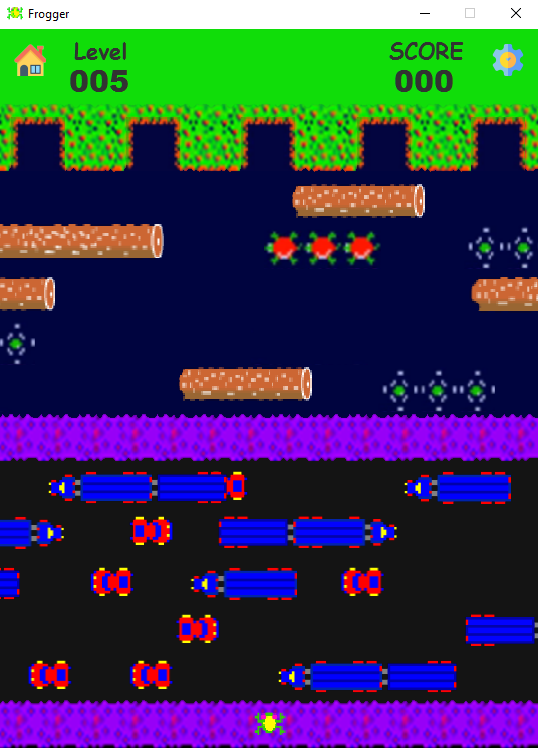
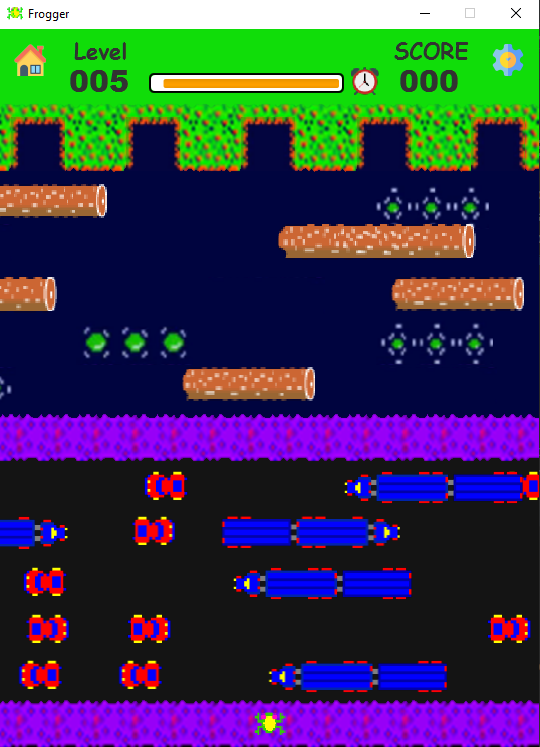
update README.md

diff --git a/README.md b/README.md
@@ -29,10 +29,19 @@ The focus of this repo will mainly be improving gameplay and adding features to 
 - [License](#license)
 
 ## Installation
+### Method 1
 1. Clone this repo
 2. Unzip the folder
 3. In command prompt use `cd $YOUR_PATH` navigate into cloned folder
 4. type in `gradlew run` to build and run the game
+### Method 2
+1. Download Released jar
+2. Download JavaFx
+3. In command prompt use `cd $YOUR_PATH` navigate into folder
+4. Run this code where specifying your own javafx/lib folder path into `$PATH_TO_JavaFX`:
+   ```shell
+   java --module-path {$PATH_TO_JavaFX} --add-modules javafx.controls,javafx.fxml,javafx.media -jar frogger-1.0.jar
+   ```
 
 [Back to content](#content)  
 
@@ -40,7 +49,7 @@ The focus of this repo will mainly be improving gameplay and adding features to 
 
 ### How to play
 - Your main objective is to bring the frog back to its home, while not being ran over by trucks or drowned on its way home.
-- Numbers of respawn chance will be given.
+- Numbers of respawn chances will be given.
 - Different score will be awarded based on time spent of each frog.
 
     #### Controls
@@ -157,14 +166,14 @@ The focus of this repo will mainly be improving gameplay and adding features to 
 - Browse personal high score
 - Show game info
 - Change Game settings
-- Select Level & play game
-- 10 levels is available
+- 5 levels are available
 - The higher the level is the harder the difficultly is
-- Extra points will be added based on time taken every round where maximum possible score is 900
+- Timer count down for extra fun
+- Extra points will be added based on time taken every round
 - Able to proceed to the next level after completing each level
 
 ### Modifications
-- Create new level easily without messing with inner logic
+- Create new level easily by extending class
 
 ## Implementations
 ### Views
@@ -192,21 +201,26 @@ This framework allows new fxml screens to be added easily.
 
 ### Major Changes
 - Added Sound class for audio clip playing and music playing
-- Added ConstantData class for assets path and game constant
-- Added RuntimeData class for runtime data references 
-- Added Player, FileGame, FileScore and FileUsername for the username and high score file reading and writing
+- Added ConstantData class for game constants
+- Added RuntimeData class for data references (game saves are loaded here)
+- Added Player, SavedGame, settings as serializable data object 
+- Added SaveGameManager that extends FileManager for the use of loading and storing player info
 - Added LevelNotFoundException a custom Exception class for error handling
 - Added Game, LoadComponents, LevelSelector and Launcher, refactored from the original main class.
 - Added LevelBase interface for linking up all custom-made levels.
-- Categorized assets into images, sounds, views (fxml assets), saves (serialized objects) and styles (css)
-- Categorized classes into packages of controllers, core, utils and worlds
-- Refactored Animal actor horrifying nested if conditions using switches
+- Added assets.properties as assets path storage
+- Added data access objects (DAO) for Player and assets
+- Categorized asset files into directories of images, sounds, views (fxml assets) and styles (css)
+- Categorized classes into package of controllers, core, utils and worlds
+- Refactored Actor class into IntersectingActor class, ActingActor class, AnimatingActor Interface
+- Refactored Turtle, WetTurtle and Frog to extends ActingActor and implements AnimatingActor capable of pausing individual animation timer while game puase
+- Refactored End actor to extends IntersectingActor and remove inherited unused methods
+- Refactored the rest of actors extend from ActingActor
 - Optimized in game score display from image view adding to label updating
 - Removed Digit actor
 - Removed Background actor and move its functionality to LoadComponents
 - Added GodAnimal actor that wins instantly for debugging purposes
 - Added several fxml screens with its controller controlled by an instance of ScreenController in Launcher
-- Linked all the functionalities from models to controller to views
 - Slightly shrink down the size of the window
 
 ### Bug Fixes
@@ -217,15 +231,29 @@ This framework allows new fxml screens to be added easily.
 [Back to content](#content)  
 
 ## Design Patterns
-- **Factory**  
-  Used in level base (interface) and levels (class) where the interface act as the general level and levelSelector instantiate one of the selected level (sub-class)
 
-- **Singleton**  
-  Used across this project such as Sound class, FileGame class etc.
+<p align="center">
+  <img src="UML/Package_frogger.png" />
+</p>   
 
-- **Facade**  
-  Used in the Game class, where it wraps a complicated subsystem with a simpler interface.
+- **MVC Pattern**  
+  Using models, views(fxml,css), controllers for the entire GUI
 
+- **Front Controller Pattern**  
+  ScreensController act as a centralized views request handling class and all other controllers are requested through ControlledClass Interface
+
+- **Factory Pattern**  
+  Used in level base (interface) and levels (class) where the interface act as the general level and levelSelector instantiate one of the level (sub-class) and cast it to level base
+
+- **Singleton Pattern**  
+  Used across this project such as Sound class, Convertor, Validator class etc.
+
+- **Facade Pattern**  
+  Used in the LoadComponents class, where it wraps a complicated subsystem (actors) with a simpler interface.
+  
+- **DAO Pattern**  
+  SaveGame Data structure Loaded from save file act as the data, uses PlayerDao implemented by PlayerDaoImpl to fetch data from SavedGame Data Structure
+  
 ## Credits
 - Icons made by <a href="https://www.flaticon.com/authors/freepik" title="Freepik">Freepik</a> from <a href="https://www.flaticon.com/" title="Flaticon"> www.flaticon.com </a>
 - Icons made by <a href="https://www.flaticon.com/authors/vectors-market" title="Vectors Market">Vectors Market</a> from <a href="https://www.flaticon.com/" title="Flaticon"> www.flaticon.com </a>
